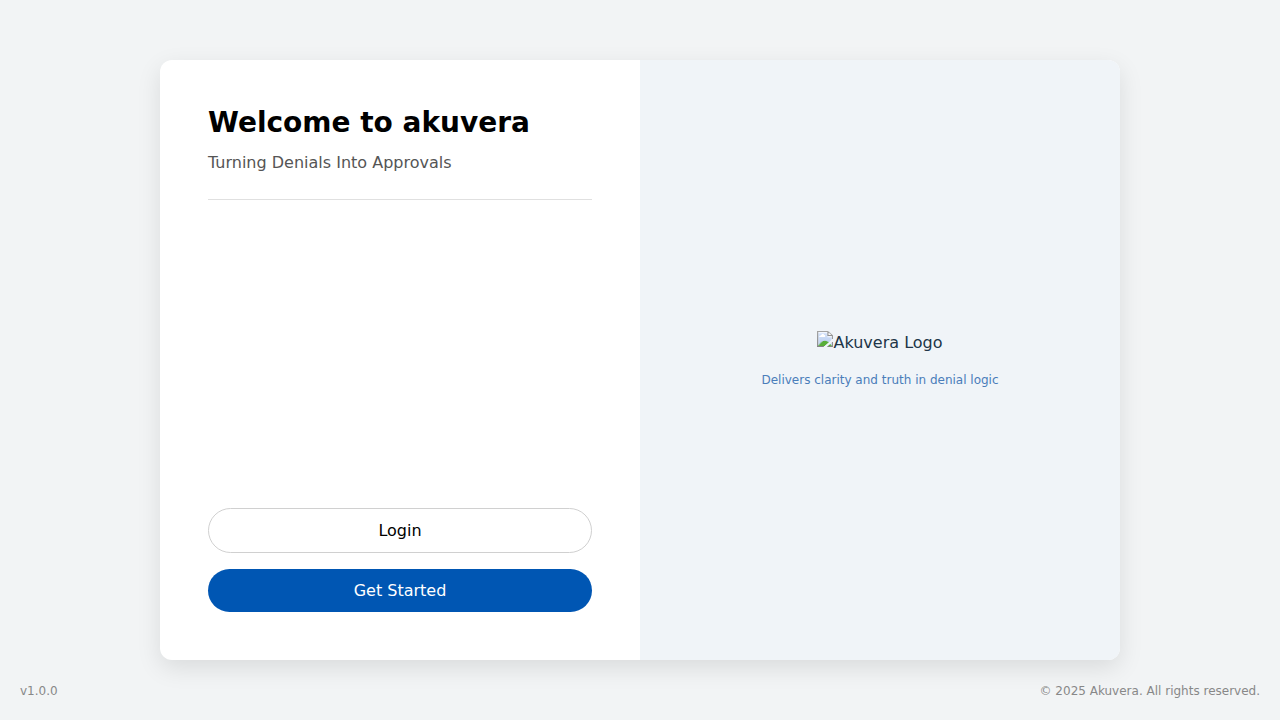
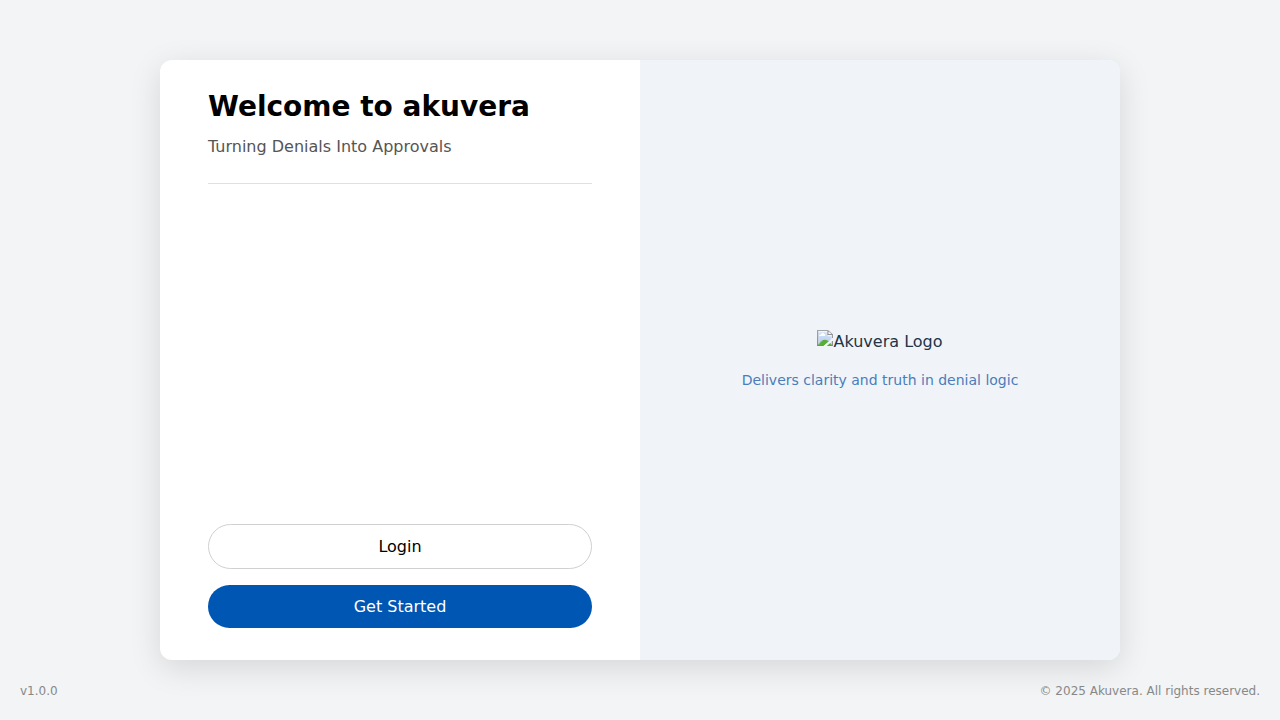
Fix: Prevent splash screen overflow on smaller viewports
This commit resolves a CSS issue where the splash screen would overflow on shorter viewports, causing a vertical scrollbar to appear.

The root cause was a fixed `min-height` on the `.splash-card` element, which prevented it from resizing correctly when the viewport height was smaller than the card's minimum height.

The fix removes the `min-height: 600px;` property from the `.splash-card` in `SplashScreen.css`, allowing the card to be fully responsive and preventing any overflow.

diff --git a/Kuve-AKU-1/src/SplashScreen.css b/Kuve-AKU-1/src/SplashScreen.css
@@ -24,7 +24,6 @@ body, html {
   display: flex;
   width: 100%;
   max-width: 960px; /* Increased max-width for the two-column layout */
-  min-height: 600px;
   background-color: #FFFFFF;
   border-radius: 12px;
   box-shadow: 0 8px 24px rgba(0, 0, 0, 0.1);

diff --git a/Kuve-AKU-1/jules-scratch/verification/verify_overflow_fix.py b/Kuve-AKU-1/jules-scratch/verification/verify_overflow_fix.py
@@ -1,0 +1,36 @@
+from playwright.sync_api import sync_playwright
+
+def run(playwright):
+    browser = playwright.chromium.launch()
+    page = browser.new_page()
+
+    # Disable animations to prevent rendering issues
+    page.add_init_script("""
+        const style = document.createElement('style');
+        style.innerHTML = `
+            *, *::before, *::after {
+                animation-duration: 0s !important;
+                transition-duration: 0s !important;
+            }
+        `;
+        document.head.appendChild(style);
+    """)
+
+    try:
+        # Navigate to the splash screen
+        page.goto("http://localhost:5173", wait_until="networkidle")
+
+        # Wait for the main container to be visible
+        page.wait_for_selector(".splash-container")
+
+        # Take a screenshot to verify the layout
+        page.screenshot(path="Kuve-AKU-1/jules-scratch/verification/verification.png")
+
+        print("Screenshot taken successfully.")
+    except Exception as e:
+        print(f"An error occurred: {e}")
+    finally:
+        browser.close()
+
+with sync_playwright() as playwright:
+    run(playwright)
